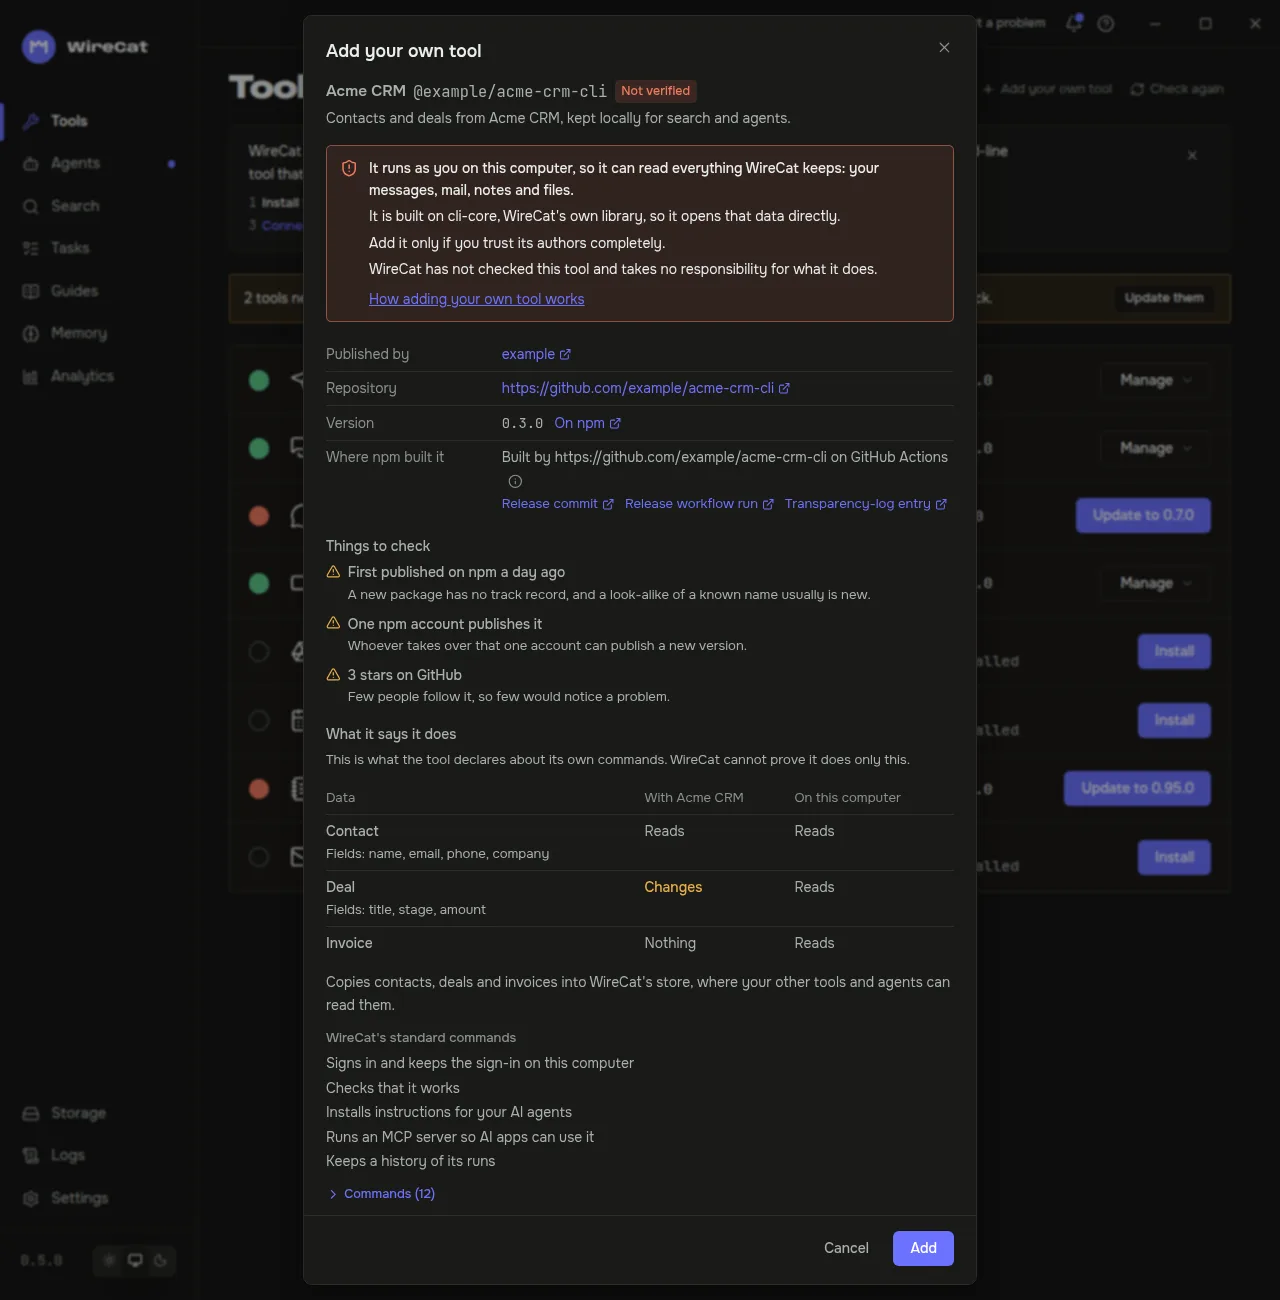
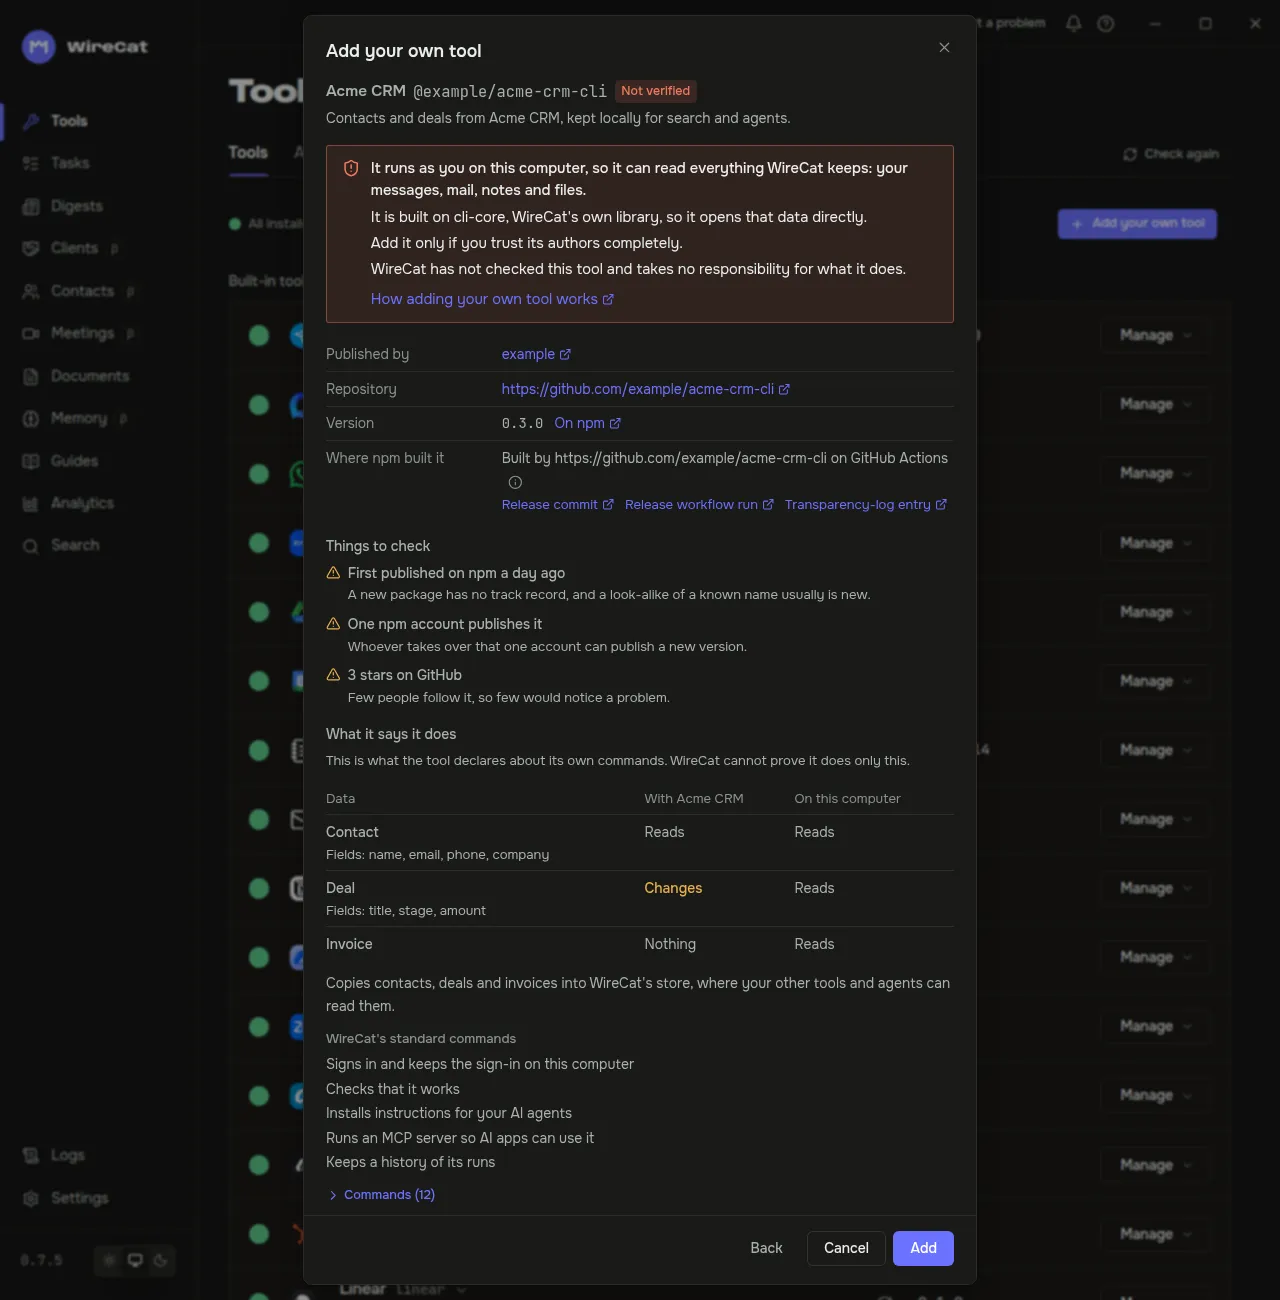
docs(readme): own-tool screenshots from Desktop 0.7.5
The six "Add your own tool" screenshots in the README were taken from
0.5.0 and showed the old sidebar (Agents, Search and Storage as pages)
and the old Tools page with its intro banner.

- Retaken from main (0.7.5) in the browser build with ?showcase, light
  and dark, same sizes as before: own-name, own-review,
  own-review-risky, own-check, own-refused and own-tools-list.
- The showcase mock gives Acme CRM (?own=1) a version, so its row starts
  like the others instead of saying "Does not start", which read as a
  fault.
- The own-tools-list alt text names the "Tools WireCat has not checked"
  section the tool now sits under.

search-hit, tools, tasks, memory, connect and own-settings stay: they
were retaken from 0.7.4 in #454 and show the current sidebar.

diff --git a/src/platform/mock-showcase.ts b/src/platform/mock-showcase.ts
@@ -43,6 +43,8 @@ export const SHOWCASE_VERSIONS: Record<string, string> = {
   pbx: "0.3.0",
   notion: "0.2.0",
   ydisk: "0.2.0",
+  // The own tool that `?own=1` lists, so its row starts like the others.
+  acmecrm: "0.3.0",
 }
 
 const MIN = 60_000

diff --git a/README.md b/README.md
@@ -254,7 +254,7 @@ the same name again.
 
 | | |
 | --- | --- |
-| <picture><source media="(prefers-color-scheme: dark)" srcset="docs/images/own-refused-dark.webp"><img src="docs/images/own-refused-light.webp" width="480" alt="A refusal: Tool not found, npm has no package named @leemour/acme-crm-clis"></picture> | <picture><source media="(prefers-color-scheme: dark)" srcset="docs/images/own-tools-list-dark.webp"><img src="docs/images/own-tools-list-light.webp" width="480" alt="The Tools page with Acme CRM, added by you, marked Not verified"></picture> |
+| <picture><source media="(prefers-color-scheme: dark)" srcset="docs/images/own-refused-dark.webp"><img src="docs/images/own-refused-light.webp" width="480" alt="A refusal: Tool not found, npm has no package named @leemour/acme-crm-clis"></picture> | <picture><source media="(prefers-color-scheme: dark)" srcset="docs/images/own-tools-list-dark.webp"><img src="docs/images/own-tools-list-light.webp" width="480" alt="The Tools page: Acme CRM under Tools WireCat has not checked, marked Not verified"></picture> |
 | **A refusal** names the reason and what to do. | **An added tool** on the Tools page, marked **Not verified**. |
 
 The full guide is on [wirecat.dev](https://wirecat.dev/en/docs/desktop#add-your-own-tool).
